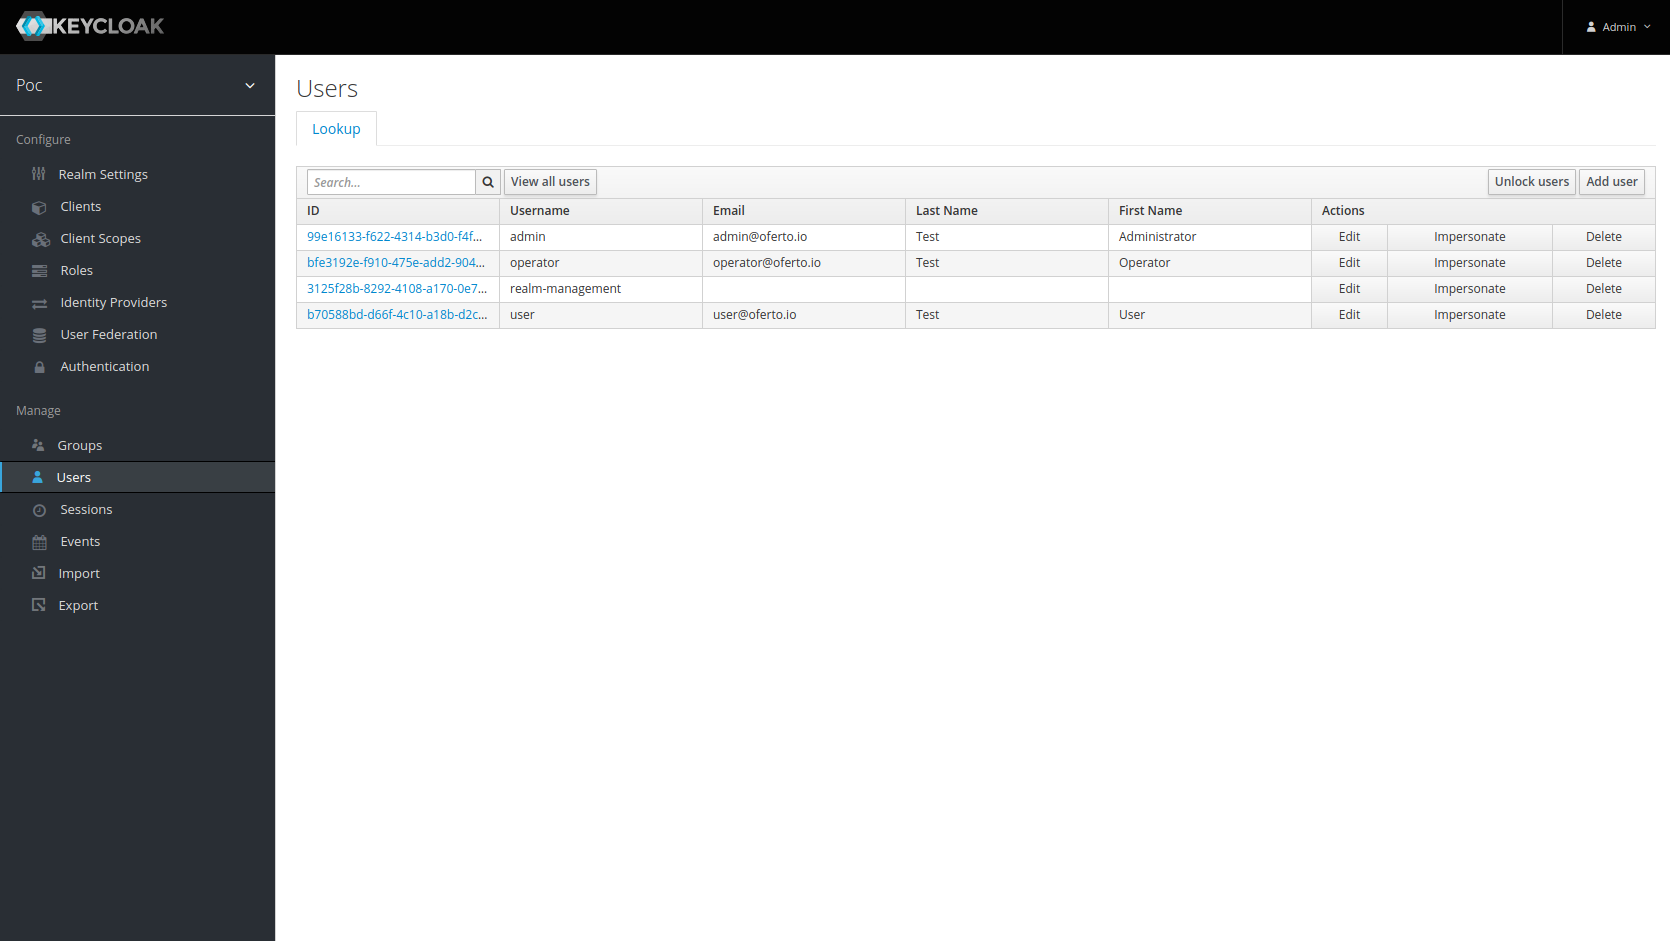
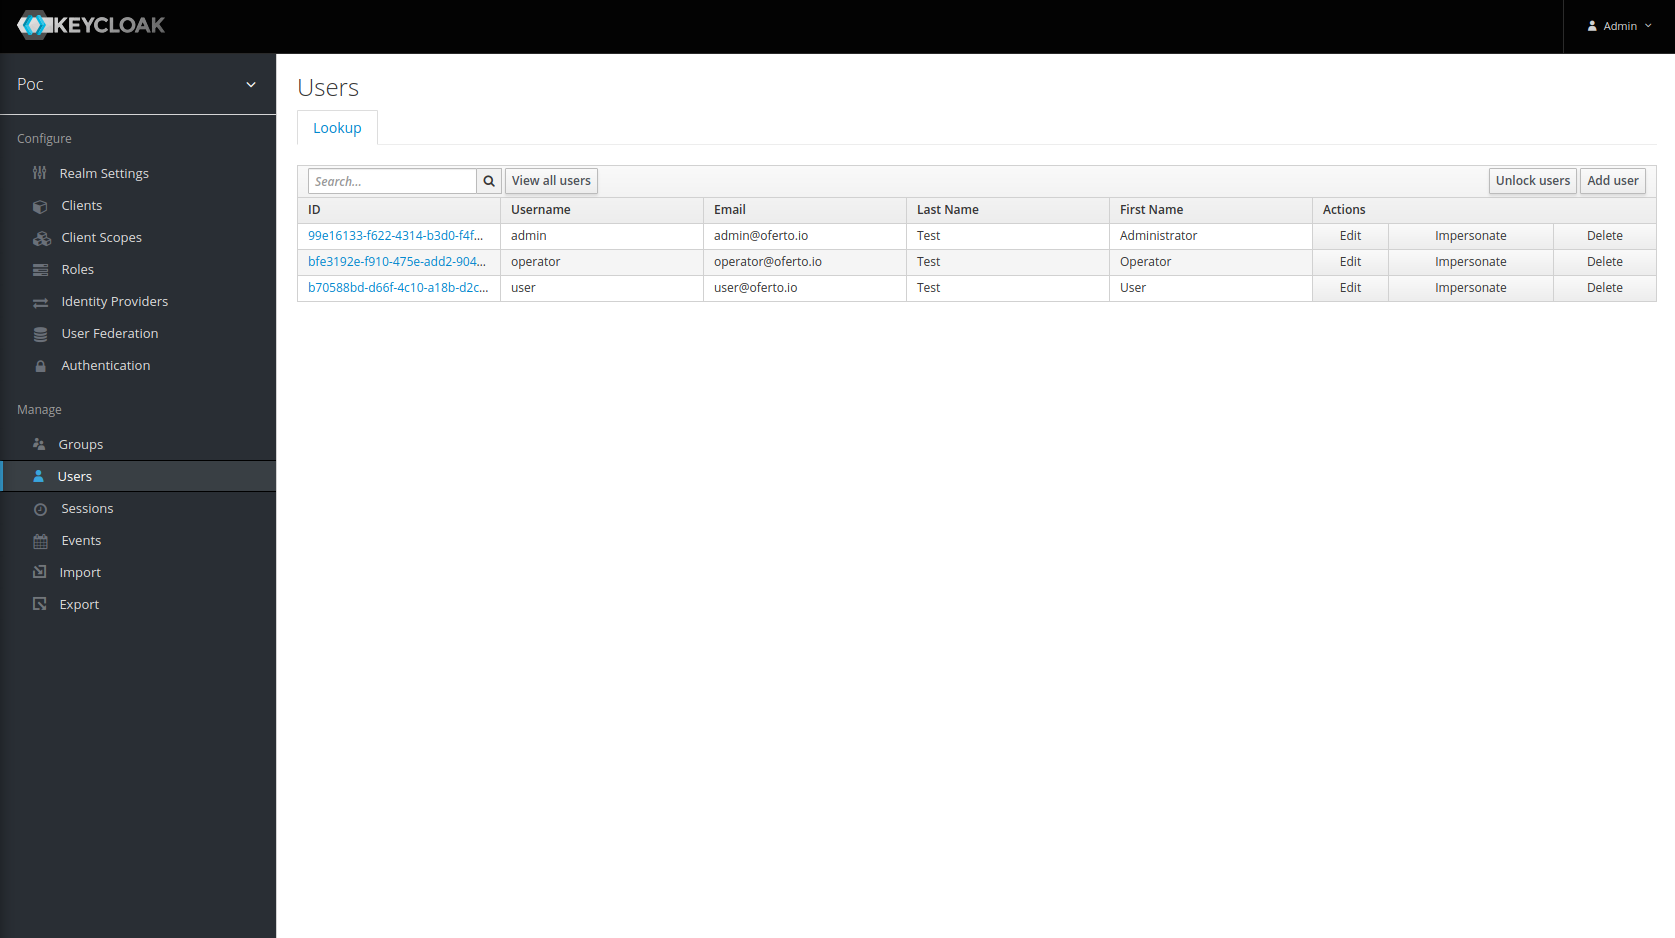
last commit

diff --git a/src/main/java/io/oferto/security/controller/UserController.java b/src/main/java/io/oferto/security/controller/UserController.java
@@ -17,7 +17,7 @@ import org.springframework.web.bind.annotation.RequestMapping;
 import org.springframework.web.bind.annotation.RequestMethod;
 import org.springframework.web.bind.annotation.RestController;
 
-import io.oferto.security.config.KeyCloakConfig;
+import io.oferto.security.config.KeyCloakAdminApiConfig;
 import io.oferto.security.dto.LoginRequest;
 import io.oferto.security.dto.LoginResponse;
 import io.oferto.security.dto.UserRequest;
@@ -44,7 +44,7 @@ public class UserController {
     public List<UserRepresentation> getUsers(@PathVariable("realm") String realm) throws Exception {
         log.info("Executing getUsers");
                 
-    	UsersResource usersResource = KeyCloakConfig.getInstance().realm(realm).users();    	
+    	UsersResource usersResource = KeyCloakAdminApiConfig.getInstance().realm(realm).users();    	
     	
     	List<UserRepresentation> userRepresentations = usersResource.list();
     	    	
@@ -55,7 +55,7 @@ public class UserController {
     public UserRepresentation getUse(@PathVariable("realm") String realm, @PathVariable("id") String id) throws Exception {
         log.info("Executing getUser By Id");
                 
-    	UsersResource usersResource = KeyCloakConfig.getInstance().realm(realm).users();    	
+    	UsersResource usersResource = KeyCloakAdminApiConfig.getInstance().realm(realm).users();    	
     	
     	List<UserRepresentation> userRepresentations = usersResource.list();
 
@@ -74,7 +74,7 @@ public class UserController {
     public List<ClientRepresentation> getClients(@PathVariable("realm") String realm) throws Exception {
         log.info("Executing getClients");
                     	
-    	ClientsResource clientsResource = KeyCloakConfig.getInstance().realm(realm).clients();
+    	ClientsResource clientsResource = KeyCloakAdminApiConfig.getInstance().realm(realm).clients();
     	
     	List<ClientRepresentation> clientRepresentations = clientsResource.findAll();    	    
     	
@@ -85,7 +85,7 @@ public class UserController {
     public Map<String, List<String>> getRoles(@PathVariable("realm") String realm, @PathVariable("id") String id) throws Exception {
         log.info("Executing getRoles");
                     	
-    	UsersResource usersResource = KeyCloakConfig.getInstance().realm(realm).users();
+    	UsersResource usersResource = KeyCloakAdminApiConfig.getInstance().realm(realm).users();
     	    	
     	List<UserRepresentation> userRepresentations = usersResource.list();
     	
@@ -104,7 +104,7 @@ public class UserController {
 	public String createUser(@PathVariable("realm") String realm, @RequestBody UserRequest userRequest) {
 		log.info("Executing createUser");
 		
-		UsersResource usersResource = KeyCloakConfig.getInstance().realm(realm).users();
+		UsersResource usersResource = KeyCloakAdminApiConfig.getInstance().realm(realm).users();
 		
 	   	UserRepresentation user = new UserRepresentation();
 	    user.setEnabled(userRequest.isEnabled());
@@ -126,7 +126,7 @@ public class UserController {
 	public void updateUser(@PathVariable("realm") String realm, @PathVariable("id") String id, @RequestBody UserRequest userRequest) {
 		log.info("Executing updateUser");
 		
-		UsersResource usersResource = KeyCloakConfig.getInstance().realm(realm).users();
+		UsersResource usersResource = KeyCloakAdminApiConfig.getInstance().realm(realm).users();
 			 
 		UserResource userResource = usersResource.get(id);
 		
@@ -148,7 +148,7 @@ public class UserController {
 	public int deleteUser(@PathVariable("realm") String realm, @PathVariable("id") String id) {
 		log.info("Executing deleteUser");
 		
-		UsersResource usersResource = KeyCloakConfig.getInstance().realm(realm).users();
+		UsersResource usersResource = KeyCloakAdminApiConfig.getInstance().realm(realm).users();
 			    	         
 	    Response response = usersResource.delete(id);
 	    	 

diff --git a/src/main/java/io/oferto/security/config/KeycloakSecurityConfig.java b/src/main/java/io/oferto/security/config/KeycloakSecurityConfig.java
@@ -1,0 +1,76 @@
+package io.oferto.security.config;
+
+import org.springframework.beans.factory.annotation.Autowired;
+import org.springframework.context.annotation.Bean;
+import org.springframework.security.config.annotation.authentication.builders.AuthenticationManagerBuilder;
+import org.springframework.security.config.annotation.web.builders.HttpSecurity;
+import org.springframework.security.core.authority.mapping.SimpleAuthorityMapper;
+import org.springframework.security.core.session.SessionRegistryImpl;
+import org.springframework.security.web.authentication.session.RegisterSessionAuthenticationStrategy;
+import org.springframework.security.web.authentication.session.SessionAuthenticationStrategy;
+
+import io.oferto.security.exception.CustomKeycloakAuthenticationHandler;
+import io.oferto.security.exception.RestAccessDeniedHandler;
+
+import org.keycloak.adapters.springboot.KeycloakSpringBootConfigResolver;
+import org.keycloak.adapters.springsecurity.KeycloakConfiguration;
+import org.keycloak.adapters.springsecurity.authentication.KeycloakAuthenticationProvider;
+import org.keycloak.adapters.springsecurity.config.KeycloakWebSecurityConfigurerAdapter;
+import org.keycloak.adapters.springsecurity.filter.KeycloakAuthenticationProcessingFilter;
+
+@KeycloakConfiguration
+public class KeycloakSecurityConfig extends KeycloakWebSecurityConfigurerAdapter {
+    @Autowired
+    RestAccessDeniedHandler restAccessDeniedHandler;
+
+    @Autowired
+    CustomKeycloakAuthenticationHandler customKeycloakAuthenticationHandler;
+    
+    @Override
+    protected void configure(HttpSecurity http) throws Exception {
+        super.configure(http);
+        
+        http.csrf().disable().cors().disable()
+                .authorizeRequests()
+                .antMatchers("/iam/**/login", "/iam/**/logout").permitAll()
+                .antMatchers("/iam/*").hasRole("admin")
+                .anyRequest()
+                .authenticated();
+        
+      //Custom error handler
+      http.exceptionHandling().accessDeniedHandler(restAccessDeniedHandler);        
+    }
+
+    // Disable default role prefix ROLE_
+    @Autowired
+    public void configureGlobal( AuthenticationManagerBuilder auth) throws Exception {
+        KeycloakAuthenticationProvider keycloakAuthenticationProvider = keycloakAuthenticationProvider();
+        keycloakAuthenticationProvider.setGrantedAuthoritiesMapper(new SimpleAuthorityMapper());
+        
+        auth.authenticationProvider(keycloakAuthenticationProvider);
+    }
+    
+    // Use Spring Boot property files instead of default keycloak.json
+    @Bean
+    public KeycloakSpringBootConfigResolver KeycloakConfigResolver() {
+        return new KeycloakSpringBootConfigResolver();
+    }
+    
+    // Register authentication strategy for public or confidential applications
+    @Bean
+    @Override
+    protected SessionAuthenticationStrategy sessionAuthenticationStrategy() {
+        return new RegisterSessionAuthenticationStrategy(new SessionRegistryImpl());
+    }
+    
+    //Keycloak auth exception handler
+    @Bean
+    @Override
+    protected KeycloakAuthenticationProcessingFilter keycloakAuthenticationProcessingFilter() throws Exception {
+        KeycloakAuthenticationProcessingFilter filter = new KeycloakAuthenticationProcessingFilter(this.authenticationManagerBean());
+        filter.setSessionAuthenticationStrategy(this.sessionAuthenticationStrategy());
+        filter.setAuthenticationFailureHandler(customKeycloakAuthenticationHandler);
+        
+        return filter;
+    }
+}

diff --git a/src/main/java/io/oferto/security/exception/CustomKeycloakAuthenticationHandler.java b/src/main/java/io/oferto/security/exception/CustomKeycloakAuthenticationHandler.java
@@ -1,0 +1,22 @@
+package io.oferto.security.exception;
+
+import javax.servlet.ServletException;
+import javax.servlet.http.HttpServletRequest;
+import javax.servlet.http.HttpServletResponse;
+import java.io.IOException;
+import java.time.LocalDateTime;
+
+import org.springframework.security.core.AuthenticationException;
+import org.springframework.security.web.authentication.AuthenticationFailureHandler;
+import org.springframework.stereotype.Component;
+
+@Component
+public class CustomKeycloakAuthenticationHandler implements AuthenticationFailureHandler {
+
+    @Override
+    public void onAuthenticationFailure(HttpServletRequest request, HttpServletResponse response, AuthenticationException exception) throws  ServletException, IOException {
+        response.setContentType("application/json");
+        response.setStatus(HttpServletResponse.SC_UNAUTHORIZED);
+        response.getOutputStream().println("{ \"timestamp\": \"" + LocalDateTime.now() + "\", \"error\": \"" + "Unauthorized" + "\", \"status\": 401 , \"message\": \"" + "invalid token" + "\", \"path\": \"" + request.getServletPath() + "\" }");
+    }
+}

diff --git a/src/main/java/io/oferto/security/config/KeyCloakAdminApiConfig.java b/src/main/java/io/oferto/security/config/KeyCloakAdminApiConfig.java
@@ -5,7 +5,7 @@ import org.keycloak.OAuth2Constants;
 import org.keycloak.admin.client.Keycloak;
 import org.keycloak.admin.client.KeycloakBuilder;
 
-public class KeyCloakConfig {
+public class KeyCloakAdminApiConfig {
 	static Keycloak keycloak = null;
 	
     final static String serverUrl = "http://localhost:8080/auth";
@@ -13,10 +13,12 @@ public class KeyCloakConfig {
     //final static String realm = "test";
     final static String clientId = "admin-cli";
     //final static String clientSecret = "01819628-948c-4220-9e6d-e56da5f34d56";
-    final static String userName = "realm-management";
-    final static String password = "management";
+    //final static String userName = "realm-management";
+    //final static String password = "management";
+    final static String userName = "admin";
+    final static String password = "admin";
     
-    public KeyCloakConfig() {
+    public KeyCloakAdminApiConfig() {
     }
 
     public static Keycloak getInstance() {

diff --git a/src/main/java/io/oferto/security/exception/RestAccessDeniedHandler.java b/src/main/java/io/oferto/security/exception/RestAccessDeniedHandler.java
@@ -1,0 +1,20 @@
+package io.oferto.security.exception;
+
+import javax.servlet.ServletException;
+import javax.servlet.http.HttpServletRequest;
+import javax.servlet.http.HttpServletResponse;
+import java.io.IOException;
+
+import org.springframework.security.access.AccessDeniedException;
+import org.springframework.security.web.access.AccessDeniedHandler;
+import org.springframework.stereotype.Component;
+
+@Component
+public class RestAccessDeniedHandler implements AccessDeniedHandler {
+
+    @Override
+    public void handle(HttpServletRequest httpServletRequest, HttpServletResponse httpServletResponse, AccessDeniedException e) throws IOException, ServletException {
+        httpServletResponse.sendError(httpServletResponse.SC_FORBIDDEN,
+                e.getMessage());
+    }
+}

diff --git a/src/main/java/io/oferto/security/service/LoginService.java b/src/main/java/io/oferto/security/service/LoginService.java
@@ -18,7 +18,7 @@ public class LoginService {
 	
     Logger logger = LoggerFactory.getLogger(LoginService.class);
                 
-    final static String clientId = "admin-cli";
+    final static String clientId = "test";
            
     @Autowired
     RestTemplate restTemplate;

diff --git a/README.md b/README.md
@@ -28,6 +28,10 @@ Poc Olive Keycloak Authentication SpringBoot Microservice
 
 ![User Roles](captures/user_roles.png "User Roles")
 
+The **admin** user add all realm realm-manager roles
+
+![Realm Manager Roles](captures/real-manager-roles.png "Realm Manager Roles") to manage users and roles
+
 ## Client configuration
 We could obtain the client configuration from client to used insides springboot microserice
 
